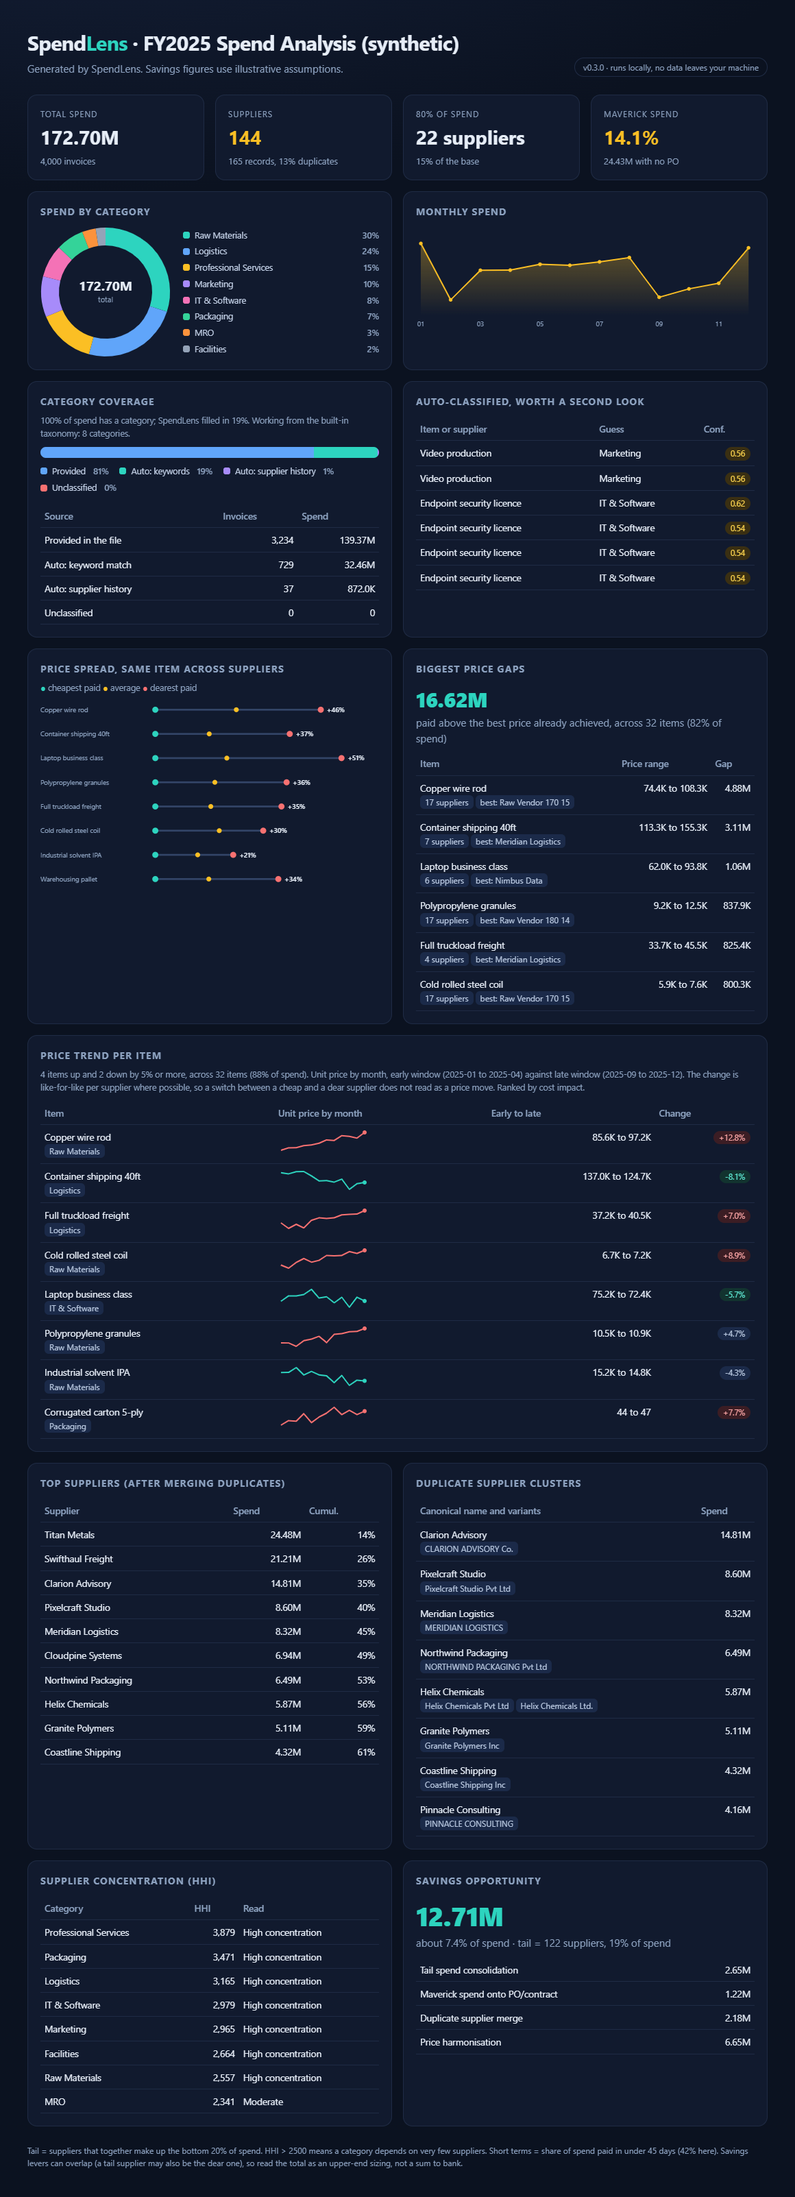
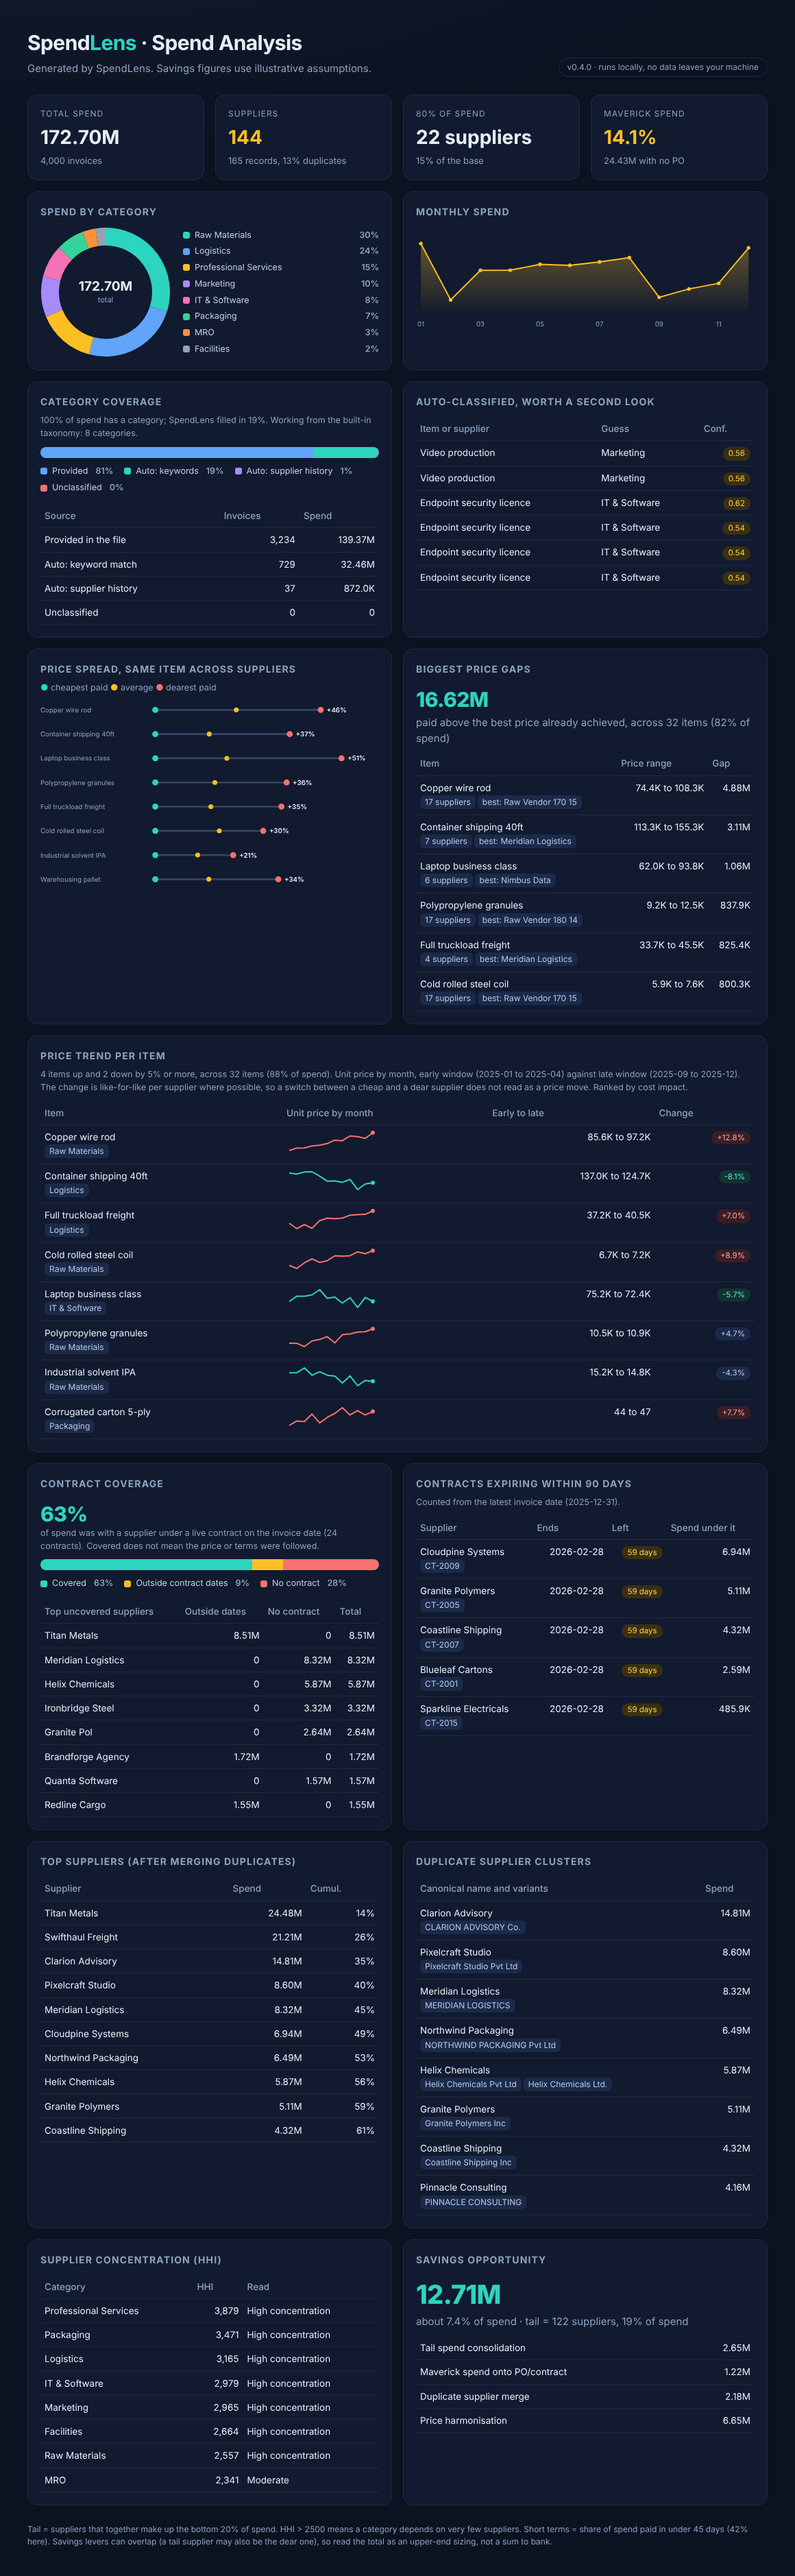
v0.4: sample contracts, report and screenshot

diff --git a/docs/sample_report.html b/docs/sample_report.html
@@ -1,5 +1,5 @@
 <!doctype html><html lang="en"><head><meta charset="utf-8">
-<meta name="viewport" content="width=device-width,initial-scale=1"><title>FY2025 Spend Analysis (synthetic)</title>
+<meta name="viewport" content="width=device-width,initial-scale=1"><title>Spend Analysis</title>
 <style>
 :root{--bg:#0b1220;--card:#111a2e;--line:#1f2b45;--tx:#e6edf7;--mut:#8da2c0;--teal:#2dd4bf;--amb:#fbbf24;--red:#f87171}
 *{box-sizing:border-box}body{margin:0;background:radial-gradient(1200px 600px at 10% -10%,#16223d,var(--bg));
@@ -31,9 +31,9 @@ td,th{padding:7px 6px;border-bottom:1px solid var(--line);vertical-align:top}td.
 .hint{color:var(--mut);font-size:12.5px;margin:-4px 0 10px}
 @media(max-width:560px){.donut{flex-direction:column;align-items:stretch}.donut svg{width:170px;margin:auto}}
 </style></head><body><div class="wrap">
-<div class="hero"><div><h1>Spend<span>Lens</span> &middot; FY2025 Spend Analysis (synthetic)</h1>
+<div class="hero"><div><h1>Spend<span>Lens</span> &middot; Spend Analysis</h1>
 <div class="sub">Generated by SpendLens. Savings figures use illustrative assumptions.</div></div>
-<span class="badge">v0.3.0 &middot; runs locally, no data leaves your machine</span></div>
+<span class="badge">v0.4.0 &middot; runs locally, no data leaves your machine</span></div>
 <div class="grid k4"><div class="kpi "><div class="k">Total spend</div><div class="v">172.70M</div><div class="s">4,000 invoices</div></div><div class="kpi warn"><div class="k">Suppliers</div><div class="v">144</div><div class="s">165 records, 13% duplicates</div></div><div class="kpi "><div class="k">80% of spend</div><div class="v">22 suppliers</div><div class="s">15% of the base</div></div><div class="kpi warn"><div class="k">Maverick spend</div><div class="v">14.1%</div><div class="s">24.43M with no PO</div></div></div>
 <div class="grid c2" style="margin-top:16px">
  <div class="card"><h2>Spend by category</h2><div class="donut"><svg viewBox="0 0 190 190" role="img"><path d="M95.00,14.00 A81.0,81.0 0 0 1 172.12,119.76" fill="none" stroke="#2dd4bf" stroke-width="26"/><path d="M172.12,119.76 A81.0,81.0 0 0 1 74.09,173.25" fill="none" stroke="#60a5fa" stroke-width="26"/><path d="M74.09,173.25 A81.0,81.0 0 0 1 20.19,126.06" fill="none" stroke="#fbbf24" stroke-width="26"/><path d="M20.19,126.06 A81.0,81.0 0 0 1 16.44,75.28" fill="none" stroke="#a78bfa" stroke-width="26"/><path d="M16.44,75.28 A81.0,81.0 0 0 1 36.42,39.06" fill="none" stroke="#f472b6" stroke-width="26"/><path d="M36.42,39.06 A81.0,81.0 0 0 1 65.70,19.49" fill="none" stroke="#34d399" stroke-width="26"/><path d="M65.70,19.49 A81.0,81.0 0 0 1 82.49,14.97" fill="none" stroke="#fb923c" stroke-width="26"/><path d="M82.49,14.97 A81.0,81.0 0 0 1 95.00,14.00" fill="none" stroke="#94a3b8" stroke-width="26"/><text x="95.0" y="93.0" text-anchor="middle" class="dv">172.70M</text><text x="95.0" y="110.0" text-anchor="middle" class="lbl">total</text></svg><div class="legend"><div class="lg"><i style="background:#2dd4bf"></i>Raw Materials<b>30%</b></div><div class="lg"><i style="background:#60a5fa"></i>Logistics<b>24%</b></div><div class="lg"><i style="background:#fbbf24"></i>Professional Services<b>15%</b></div><div class="lg"><i style="background:#a78bfa"></i>Marketing<b>10%</b></div><div class="lg"><i style="background:#f472b6"></i>IT &amp; Software<b>8%</b></div><div class="lg"><i style="background:#34d399"></i>Packaging<b>7%</b></div><div class="lg"><i style="background:#fb923c"></i>MRO<b>3%</b></div><div class="lg"><i style="background:#94a3b8"></i>Facilities<b>2%</b></div></div></div></div>
@@ -62,7 +62,19 @@ td,th{padding:7px 6px;border-bottom:1px solid var(--line);vertical-align:top}td.
    (88% of spend). Unit price by month, early window (2025-01 to 2025-04) against late window
    (2025-09 to 2025-12). The change is like-for-like per supplier where possible, so a switch between a cheap and a
    dear supplier does not read as a price move. Ranked by cost impact.</div>
-  <table><tr><th>Item</th><th>Unit price by month</th><th class="n">Early to late</th><th class="n">Change</th></tr><tr><td>Copper wire rod<br><span class='tag'>Raw Materials</span></td><td><svg viewBox="0 0 130 34" role="img" style="width:130px"><polyline points="4.0,30.0 15.1,26.4 26.2,26.2 37.3,23.2 48.4,22.3 59.5,19.8 70.5,14.9 81.6,15.7 92.7,8.7 103.8,9.7 114.9,12.2 126.0,4.0" fill="none" stroke="#f87171" stroke-width="2" stroke-linejoin="round"/><circle cx="126.0" cy="4.0" r="3" fill="#f87171"/></svg></td><td class='n'>85.6K to 97.2K</td><td class='n'><span class='pill hi'>+12.8%</span></td></tr><tr><td>Container shipping 40ft<br><span class='tag'>Logistics</span></td><td><svg viewBox="0 0 130 34" role="img" style="width:130px"><polyline points="4.0,5.8 15.1,7.4 26.2,4.2 37.3,4.0 48.4,10.3 59.5,17.7 70.5,17.3 81.6,19.4 92.7,15.1 103.8,30.0 114.9,21.8 126.0,20.0" fill="none" stroke="#2dd4bf" stroke-width="2" stroke-linejoin="round"/><circle cx="126.0" cy="20.0" r="3" fill="#2dd4bf"/></svg></td><td class='n'>137.0K to 124.7K</td><td class='n'><span class='pill lo'>-8.1%</span></td></tr><tr><td>Full truckload freight<br><span class='tag'>Logistics</span></td><td><svg viewBox="0 0 130 34" role="img" style="width:130px"><polyline points="4.0,22.0 15.1,30.0 26.2,24.0 37.3,29.4 48.4,18.3 59.5,14.6 70.5,15.4 81.6,14.5 92.7,10.2 103.8,9.6 114.9,9.1 126.0,4.0" fill="none" stroke="#f87171" stroke-width="2" stroke-linejoin="round"/><circle cx="126.0" cy="4.0" r="3" fill="#f87171"/></svg></td><td class='n'>37.2K to 40.5K</td><td class='n'><span class='pill hi'>+7.0%</span></td></tr><tr><td>Cold rolled steel coil<br><span class='tag'>Raw Materials</span></td><td><svg viewBox="0 0 130 34" role="img" style="width:130px"><polyline points="4.0,25.5 15.1,30.0 26.2,21.7 37.3,16.0 48.4,21.2 59.5,18.6 70.5,11.5 81.6,12.0 92.7,11.4 103.8,5.8 114.9,8.5 126.0,4.0" fill="none" stroke="#f87171" stroke-width="2" stroke-linejoin="round"/><circle cx="126.0" cy="4.0" r="3" fill="#f87171"/></svg></td><td class='n'>6.7K to 7.2K</td><td class='n'><span class='pill hi'>+8.9%</span></td></tr><tr><td>Laptop business class<br><span class='tag'>IT &amp; Software</span></td><td><svg viewBox="0 0 130 34" role="img" style="width:130px"><polyline points="4.0,21.2 15.1,13.4 26.2,13.6 37.3,11.5 48.4,4.0 59.5,16.6 70.5,14.7 81.6,23.5 92.7,15.5 103.8,30.0 114.9,15.3 126.0,20.9" fill="none" stroke="#2dd4bf" stroke-width="2" stroke-linejoin="round"/><circle cx="126.0" cy="20.9" r="3" fill="#2dd4bf"/></svg></td><td class='n'>75.2K to 72.4K</td><td class='n'><span class='pill lo'>-5.7%</span></td></tr><tr><td>Polypropylene granules<br><span class='tag'>Raw Materials</span></td><td><svg viewBox="0 0 130 34" role="img" style="width:130px"><polyline points="4.0,25.1 15.1,25.2 26.2,30.0 37.3,21.8 48.4,19.6 59.5,15.4 70.5,24.6 81.6,12.6 92.7,11.5 103.8,8.7 114.9,8.3 126.0,4.0" fill="none" stroke="#f87171" stroke-width="2" stroke-linejoin="round"/><circle cx="126.0" cy="4.0" r="3" fill="#f87171"/></svg></td><td class='n'>10.5K to 10.9K</td><td class='n'><span class='pill '>+4.7%</span></td></tr><tr><td>Industrial solvent IPA<br><span class='tag'>Raw Materials</span></td><td><svg viewBox="0 0 130 34" role="img" style="width:130px"><polyline points="4.0,11.3 15.1,11.1 26.2,4.0 37.3,14.8 48.4,9.6 59.5,14.7 70.5,15.9 81.6,26.0 92.7,15.6 103.8,30.0 114.9,22.4 126.0,23.4" fill="none" stroke="#2dd4bf" stroke-width="2" stroke-linejoin="round"/><circle cx="126.0" cy="23.4" r="3" fill="#2dd4bf"/></svg></td><td class='n'>15.2K to 14.8K</td><td class='n'><span class='pill '>-4.3%</span></td></tr><tr><td>Corrugated carton 5-ply<br><span class='tag'>Packaging</span></td><td><svg viewBox="0 0 130 34" role="img" style="width:130px"><polyline points="4.0,30.0 15.1,23.4 26.2,24.2 37.3,13.3 48.4,26.4 59.5,18.2 70.5,12.5 81.6,4.0 92.7,14.7 103.8,8.4 114.9,14.7 126.0,9.6" fill="none" stroke="#f87171" stroke-width="2" stroke-linejoin="round"/><circle cx="126.0" cy="9.6" r="3" fill="#f87171"/></svg></td><td class='n'>44 to 47</td><td class='n'><span class='pill hi'>+7.7%</span></td></tr></table></div>
+  <table><tr><th>Item</th><th>Unit price by month</th><th class="n">Early to late</th><th class="n">Change</th></tr><tr><td>Copper wire rod<br><span class='tag'>Raw Materials</span></td><td><svg viewBox="0 0 130 34" role="img" style="width:130px"><polyline points="4.0,30.0 15.1,26.4 26.2,26.2 37.3,23.2 48.4,22.3 59.5,19.8 70.5,14.9 81.6,15.7 92.7,8.7 103.8,9.7 114.9,12.2 126.0,4.0" fill="none" stroke="#f87171" stroke-width="2" stroke-linejoin="round"/><circle cx="126.0" cy="4.0" r="3" fill="#f87171"/></svg></td><td class='n'>85.6K to 97.2K</td><td class='n'><span class='pill hi'>+12.8%</span></td></tr><tr><td>Container shipping 40ft<br><span class='tag'>Logistics</span></td><td><svg viewBox="0 0 130 34" role="img" style="width:130px"><polyline points="4.0,5.8 15.1,7.4 26.2,4.2 37.3,4.0 48.4,10.3 59.5,17.7 70.5,17.3 81.6,19.4 92.7,15.1 103.8,30.0 114.9,21.8 126.0,20.0" fill="none" stroke="#2dd4bf" stroke-width="2" stroke-linejoin="round"/><circle cx="126.0" cy="20.0" r="3" fill="#2dd4bf"/></svg></td><td class='n'>137.0K to 124.7K</td><td class='n'><span class='pill lo'>-8.1%</span></td></tr><tr><td>Full truckload freight<br><span class='tag'>Logistics</span></td><td><svg viewBox="0 0 130 34" role="img" style="width:130px"><polyline points="4.0,22.0 15.1,30.0 26.2,24.0 37.3,29.4 48.4,18.3 59.5,14.6 70.5,15.4 81.6,14.5 92.7,10.2 103.8,9.6 114.9,9.1 126.0,4.0" fill="none" stroke="#f87171" stroke-width="2" stroke-linejoin="round"/><circle cx="126.0" cy="4.0" r="3" fill="#f87171"/></svg></td><td class='n'>37.2K to 40.5K</td><td class='n'><span class='pill hi'>+7.0%</span></td></tr><tr><td>Cold rolled steel coil<br><span class='tag'>Raw Materials</span></td><td><svg viewBox="0 0 130 34" role="img" style="width:130px"><polyline points="4.0,25.5 15.1,30.0 26.2,21.7 37.3,16.0 48.4,21.2 59.5,18.6 70.5,11.5 81.6,12.0 92.7,11.4 103.8,5.8 114.9,8.5 126.0,4.0" fill="none" stroke="#f87171" stroke-width="2" stroke-linejoin="round"/><circle cx="126.0" cy="4.0" r="3" fill="#f87171"/></svg></td><td class='n'>6.7K to 7.2K</td><td class='n'><span class='pill hi'>+8.9%</span></td></tr><tr><td>Laptop business class<br><span class='tag'>IT &amp; Software</span></td><td><svg viewBox="0 0 130 34" role="img" style="width:130px"><polyline points="4.0,21.2 15.1,13.4 26.2,13.6 37.3,11.5 48.4,4.0 59.5,16.6 70.5,14.7 81.6,23.5 92.7,15.5 103.8,30.0 114.9,15.3 126.0,20.9" fill="none" stroke="#2dd4bf" stroke-width="2" stroke-linejoin="round"/><circle cx="126.0" cy="20.9" r="3" fill="#2dd4bf"/></svg></td><td class='n'>75.2K to 72.4K</td><td class='n'><span class='pill lo'>-5.7%</span></td></tr><tr><td>Polypropylene granules<br><span class='tag'>Raw Materials</span></td><td><svg viewBox="0 0 130 34" role="img" style="width:130px"><polyline points="4.0,25.1 15.1,25.2 26.2,30.0 37.3,21.8 48.4,19.6 59.5,15.4 70.5,24.6 81.6,12.6 92.7,11.5 103.8,8.7 114.9,8.3 126.0,4.0" fill="none" stroke="#f87171" stroke-width="2" stroke-linejoin="round"/><circle cx="126.0" cy="4.0" r="3" fill="#f87171"/></svg></td><td class='n'>10.5K to 10.9K</td><td class='n'><span class='pill '>+4.7%</span></td></tr><tr><td>Industrial solvent IPA<br><span class='tag'>Raw Materials</span></td><td><svg viewBox="0 0 130 34" role="img" style="width:130px"><polyline points="4.0,11.3 15.1,11.1 26.2,4.0 37.3,14.8 48.4,9.6 59.5,14.7 70.5,15.9 81.6,26.0 92.7,15.6 103.8,30.0 114.9,22.4 126.0,23.4" fill="none" stroke="#2dd4bf" stroke-width="2" stroke-linejoin="round"/><circle cx="126.0" cy="23.4" r="3" fill="#2dd4bf"/></svg></td><td class='n'>15.2K to 14.8K</td><td class='n'><span class='pill '>-4.3%</span></td></tr><tr><td>Corrugated carton 5-ply<br><span class='tag'>Packaging</span></td><td><svg viewBox="0 0 130 34" role="img" style="width:130px"><polyline points="4.0,30.0 15.1,23.4 26.2,24.2 37.3,13.3 48.4,26.4 59.5,18.2 70.5,12.5 81.6,4.0 92.7,14.7 103.8,8.4 114.9,14.7 126.0,9.6" fill="none" stroke="#f87171" stroke-width="2" stroke-linejoin="round"/><circle cx="126.0" cy="9.6" r="3" fill="#f87171"/></svg></td><td class='n'>44 to 47</td><td class='n'><span class='pill hi'>+7.7%</span></td></tr></table></div><div class="grid c2" style="margin-top:16px">
+ <div class="card"><h2>Contract coverage</h2>
+  <div class="big" style="font-size:30px">63%</div>
+  <div class="hint">of spend was with a supplier under a live contract on the invoice date
+   (24 contracts). Covered does not mean the price or terms were followed.</div>
+  <div class="stack"><span style="width:62.65%;background:#2dd4bf"></span><span style="width:9.05%;background:#fbbf24"></span><span style="width:28.30%;background:#f87171"></span></div><div class="legend row"><div class="lg"><i style="background:#2dd4bf"></i>Covered<b>63%</b></div><div class="lg"><i style="background:#fbbf24"></i>Outside contract dates<b>9%</b></div><div class="lg"><i style="background:#f87171"></i>No contract<b>28%</b></div></div>
+  <table style="margin-top:14px"><tr><th>Top uncovered suppliers</th><th class="n">Outside dates</th>
+   <th class="n">No contract</th><th class="n">Total</th></tr><tr><td>Titan Metals</td><td class='n'>8.51M</td><td class='n'>0</td><td class='n'>8.51M</td></tr><tr><td>Meridian Logistics</td><td class='n'>0</td><td class='n'>8.32M</td><td class='n'>8.32M</td></tr><tr><td>Helix Chemicals</td><td class='n'>0</td><td class='n'>5.87M</td><td class='n'>5.87M</td></tr><tr><td>Ironbridge Steel</td><td class='n'>0</td><td class='n'>3.32M</td><td class='n'>3.32M</td></tr><tr><td>Granite Pol</td><td class='n'>0</td><td class='n'>2.64M</td><td class='n'>2.64M</td></tr><tr><td>Brandforge Agency</td><td class='n'>1.72M</td><td class='n'>0</td><td class='n'>1.72M</td></tr><tr><td>Quanta Software</td><td class='n'>0</td><td class='n'>1.57M</td><td class='n'>1.57M</td></tr><tr><td>Redline Cargo</td><td class='n'>1.55M</td><td class='n'>0</td><td class='n'>1.55M</td></tr></table></div>
+ <div class="card"><h2>Contracts expiring within 90 days</h2>
+  <div class="hint">Counted from the latest invoice date (2025-12-31).</div>
+  <table><tr><th>Supplier</th><th class="n">Ends</th><th class="n">Left</th>
+   <th class="n">Spend under it</th></tr><tr><td>Cloudpine Systems<br><span class='tag'>CT-2009</span></td><td class='n'>2026-02-28</td><td class='n'><span class='pill md'>59 days</span></td><td class='n'>6.94M</td></tr><tr><td>Granite Polymers<br><span class='tag'>CT-2005</span></td><td class='n'>2026-02-28</td><td class='n'><span class='pill md'>59 days</span></td><td class='n'>5.11M</td></tr><tr><td>Coastline Shipping<br><span class='tag'>CT-2007</span></td><td class='n'>2026-02-28</td><td class='n'><span class='pill md'>59 days</span></td><td class='n'>4.32M</td></tr><tr><td>Blueleaf Cartons<br><span class='tag'>CT-2001</span></td><td class='n'>2026-02-28</td><td class='n'><span class='pill md'>59 days</span></td><td class='n'>2.59M</td></tr><tr><td>Sparkline Electricals<br><span class='tag'>CT-2015</span></td><td class='n'>2026-02-28</td><td class='n'><span class='pill md'>59 days</span></td><td class='n'>485.9K</td></tr></table></div>
+</div>
 <div class="grid c2" style="margin-top:16px">
  <div class="card"><h2>Top suppliers (after merging duplicates)</h2>
   <table><tr><th>Supplier</th><th class="n">Spend</th><th class="n">Cumul.</th></tr><tr><td>Titan Metals</td><td class='n'>24.48M</td><td class='n'>14%</td></tr><tr><td>Swifthaul Freight</td><td class='n'>21.21M</td><td class='n'>26%</td></tr><tr><td>Clarion Advisory</td><td class='n'>14.81M</td><td class='n'>35%</td></tr><tr><td>Pixelcraft Studio</td><td class='n'>8.60M</td><td class='n'>40%</td></tr><tr><td>Meridian Logistics</td><td class='n'>8.32M</td><td class='n'>45%</td></tr><tr><td>Cloudpine Systems</td><td class='n'>6.94M</td><td class='n'>49%</td></tr><tr><td>Northwind Packaging</td><td class='n'>6.49M</td><td class='n'>53%</td></tr><tr><td>Helix Chemicals</td><td class='n'>5.87M</td><td class='n'>56%</td></tr><tr><td>Granite Polymers</td><td class='n'>5.11M</td><td class='n'>59%</td></tr><tr><td>Coastline Shipping</td><td class='n'>4.32M</td><td class='n'>61%</td></tr></table></div>
